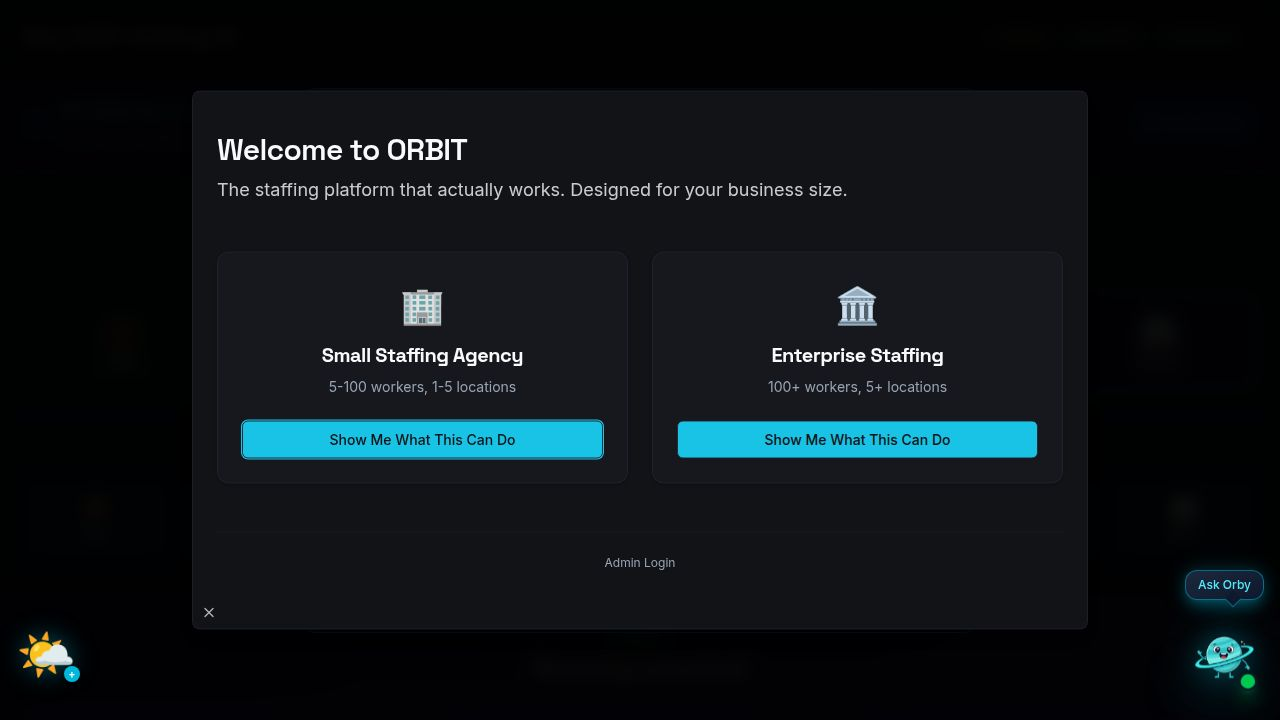
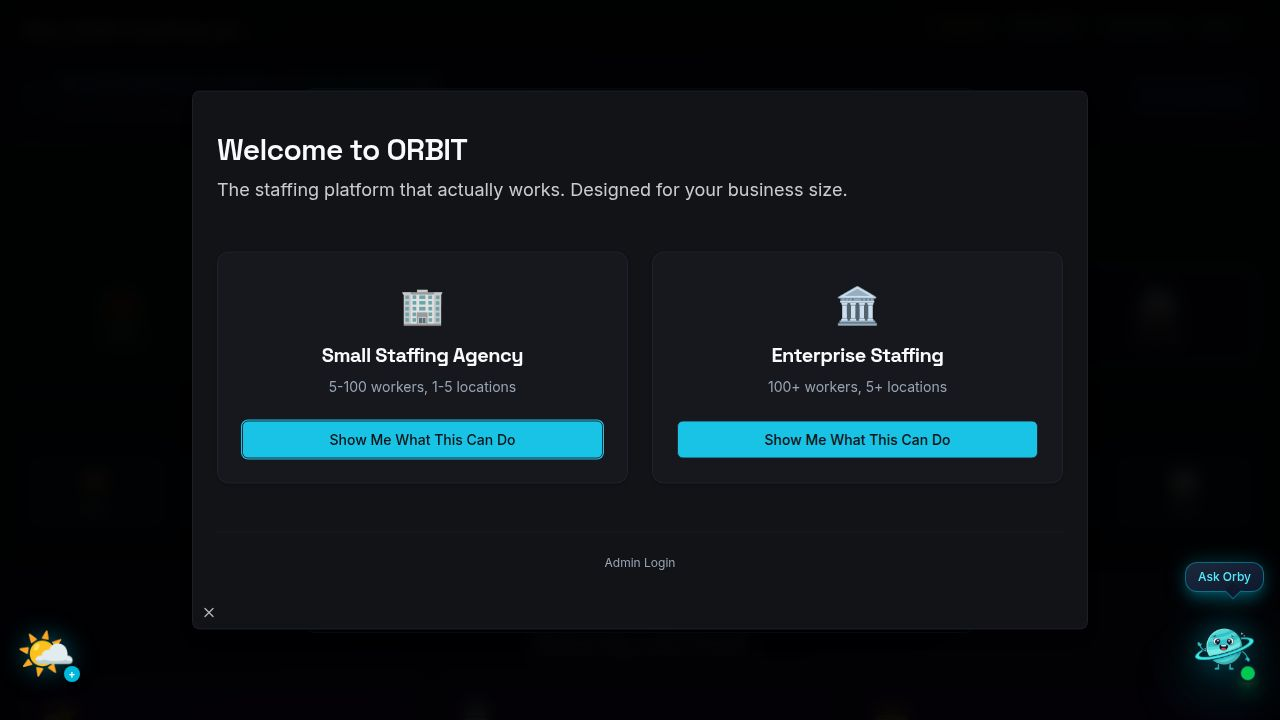
Align version number with other header elements
Adjust CSS to ensure the version number aligns correctly with other elements in the header component.

Replit-Commit-Author: Agent
Replit-Commit-Session-Id: df6a5f3a-5cc7-457d-a71c-08b3217d563c
Replit-Commit-Checkpoint-Type: full_checkpoint
Replit-Commit-Event-Id: 1ebb3852-46f0-4ab0-859e-4cb39fe96dc9
Replit-Commit-Screenshot-Url: https://storage.googleapis.com/screenshot-production-us-central1/606bb700-1745-49b9-8ff5-b83937d394a3/df6a5f3a-5cc7-457d-a71c-08b3217d563c/fib3ZVG

Changed region(s): [[0.9062, 0.7639, 1.0, 0.9472], [0.0, 0.8861, 0.0625, 0.9472]]

diff --git a/client/src/pages/Landing.tsx b/client/src/pages/Landing.tsx
@@ -127,10 +127,10 @@ export default function Landing() {
       {/* Header */}
       <header className="border-b border-border/50 backdrop-blur-sm sticky top-0 z-50 h-11 sm:h-12">
         <div className="max-w-7xl mx-auto px-3 sm:px-6 w-full h-full flex items-end justify-between gap-2 sm:gap-6">
-          <div className="flex items-end gap-2 flex-shrink-0 pb-1">
+          <div className="flex h-full items-end gap-2 flex-shrink-0 pb-2">
             <span className="font-heading font-bold text-sm sm:text-lg tracking-wider text-white whitespace-nowrap leading-none sm:hidden">ORBIT</span>
             <span className="font-heading font-bold text-sm sm:text-lg tracking-wider text-white whitespace-nowrap leading-none hidden sm:inline">Why ORBIT Staffing OS</span>
-            <Link href="/changelog" className="text-[10px] sm:text-xs font-mono text-cyan-400 hover:text-cyan-300 transition-colors leading-none self-end" data-testid="link-version">
+            <Link href="/changelog" className="text-[10px] sm:text-xs font-mono text-cyan-400 hover:text-cyan-300 transition-colors leading-none" data-testid="link-version">
               v2.6.4
             </Link>
           </div>
